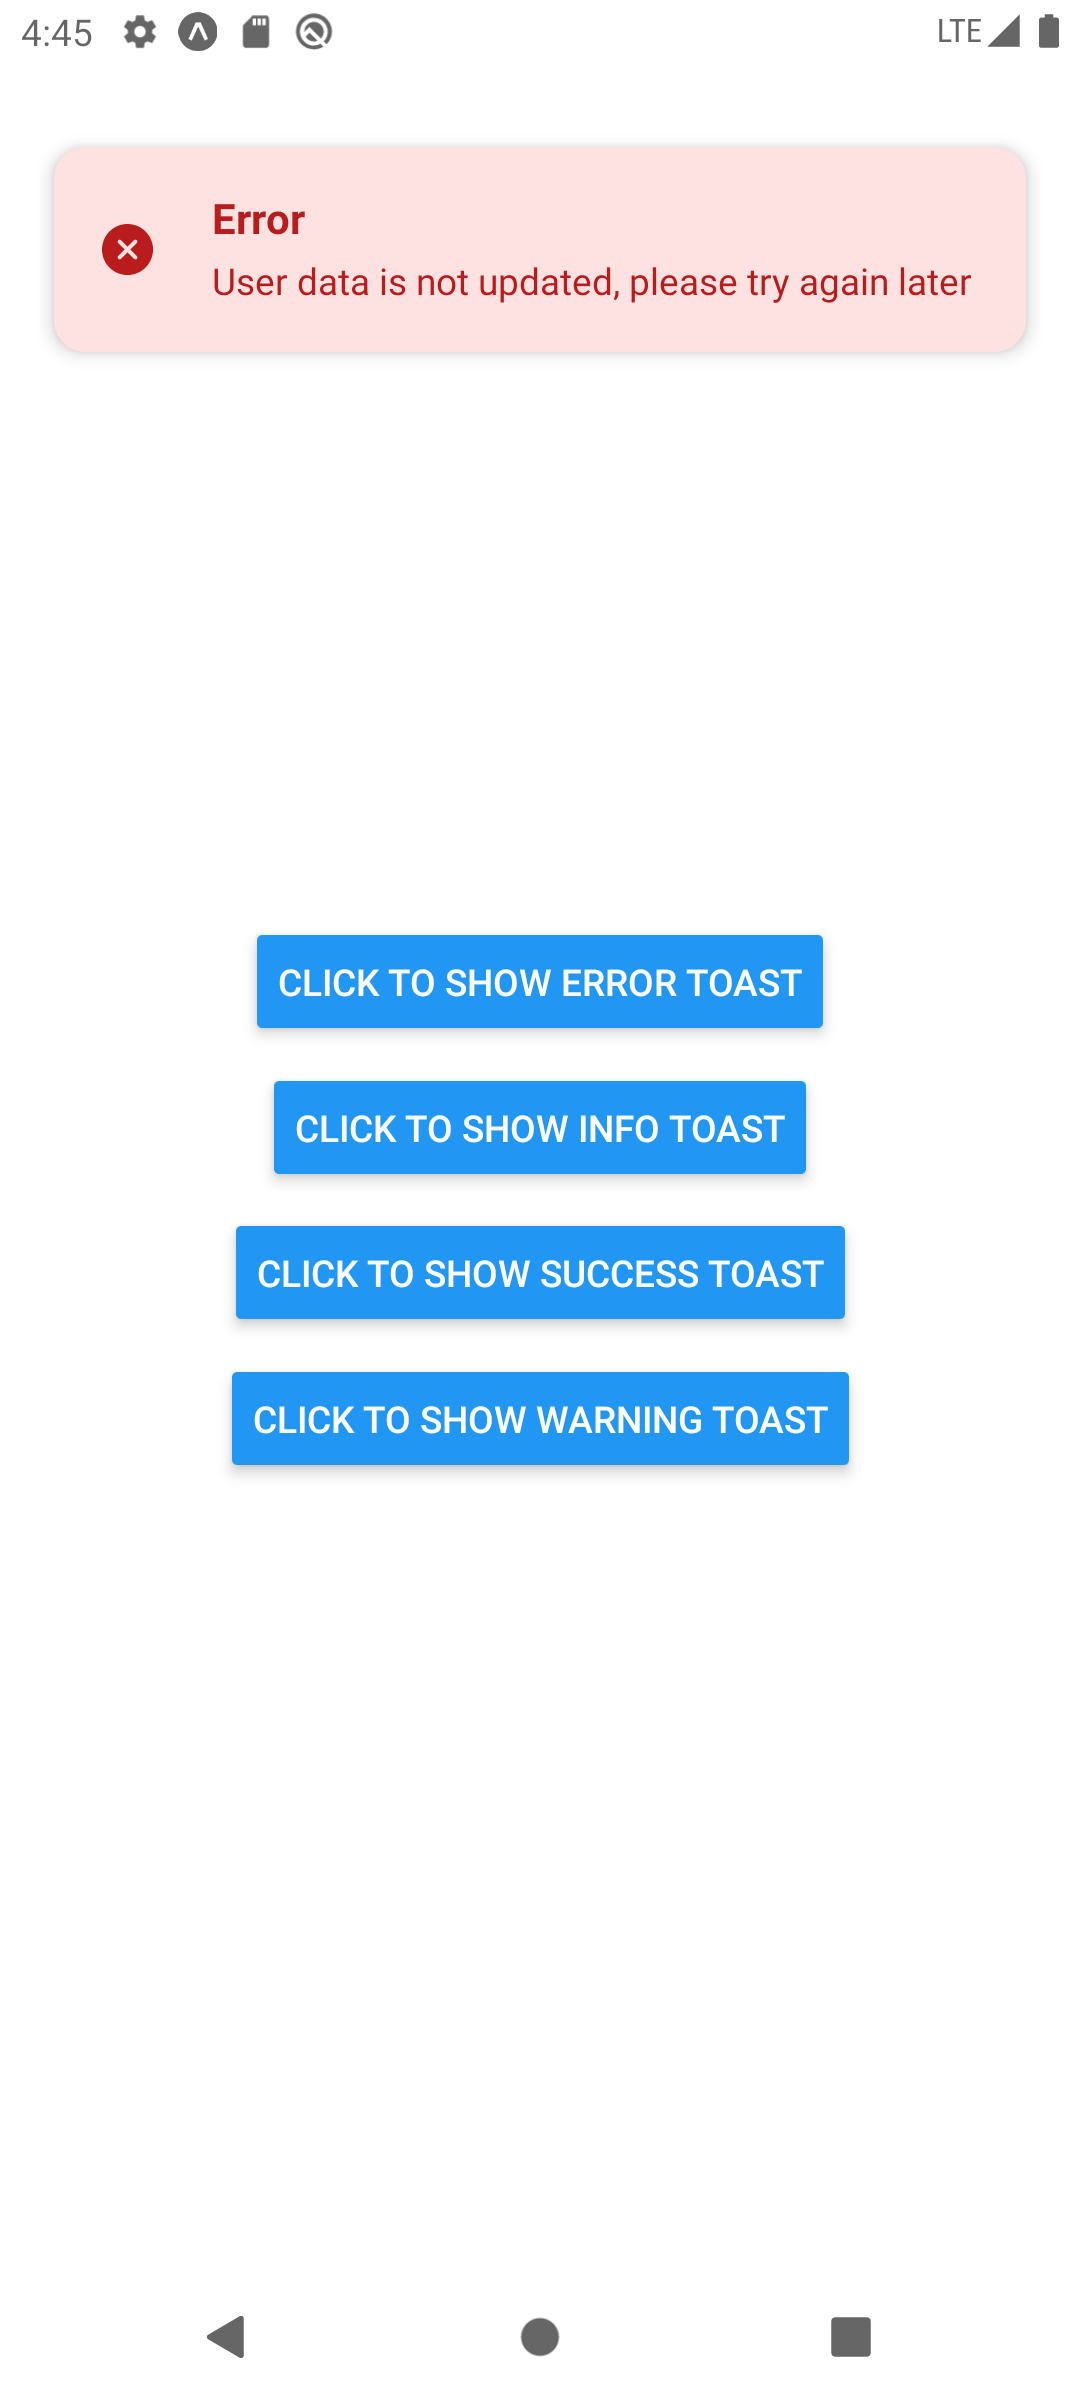
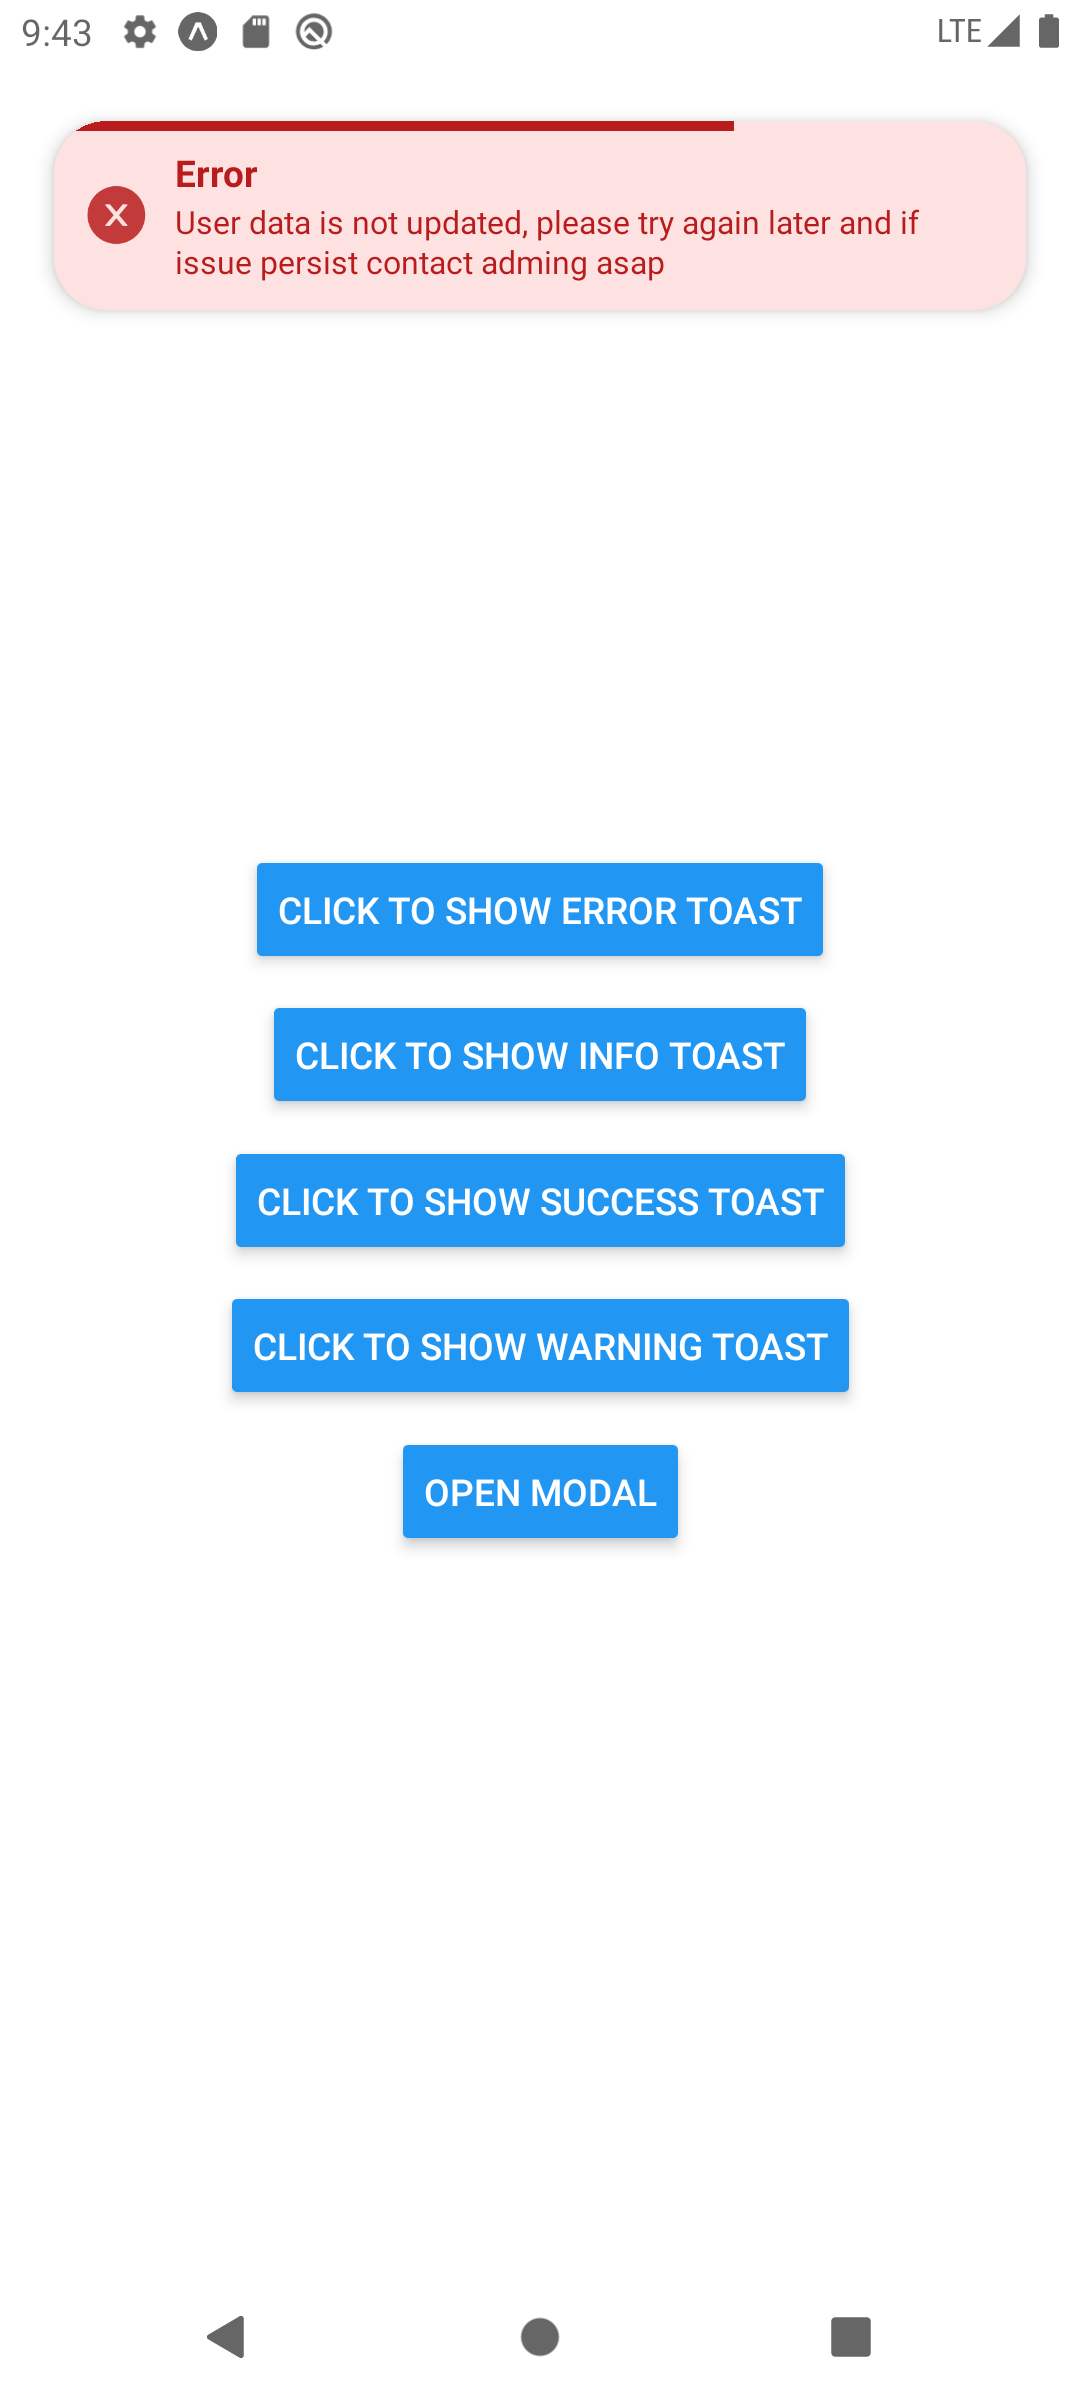
work on design enhancemnets

Changed region(s): [[0.2139, 0.3438, 0.7944, 0.6562], [0.0306, 0.0312, 0.9472, 0.1562]]

diff --git a/src/Toaster.tsx b/src/Toaster.tsx
@@ -14,7 +14,7 @@ import {
   Vibration,
   Image,
 } from 'react-native';
-import { setToastRef, type ToastOptions } from './toastService';
+import { setToastRef, type ToastOptions } from './toastService'; // Removed unused imports
 
 const { width: SCREEN_WIDTH, height: SCREEN_HEIGHT } = Dimensions.get('window');
 const DEFAULT_DURATION = 3000;
@@ -40,7 +40,13 @@ export type ToastAnimation =
   | 'slideFromBottom'
   | 'slideFromCorner';
 
-export type IconAnimationType = 'pulse' | 'rotate' | 'bounce' | 'none';
+export type IconAnimationType =
+  | 'pulse'
+  | 'rotate'
+  | 'bounce'
+  | 'shake'
+  | 'tada'
+  | 'none';
 
 export type SwipeDirection =
   | 'horizontal'
@@ -114,6 +120,7 @@ export const Toaster = ({
           ? updatedToasts.slice(updatedToasts.length - maxToasts)
           : updatedToasts;
       });
+      return id; // Return ID for programmatic dismissal
     },
     [
       maxToasts,
@@ -125,14 +132,18 @@ export const Toaster = ({
     ]
   );
 
-  useEffect(() => {
-    setToastRef(show);
-    return () => setToastRef(null);
-  }, [show]);
-
   const hideToast = useCallback((id: number) => {
     setToasts((prev) => prev.filter((toast) => toast.id !== id));
   }, []);
+
+  const hideAllToasts = useCallback(() => {
+    setToasts([]);
+  }, []);
+
+  useEffect(() => {
+    setToastRef(show, hideToast, hideAllToasts);
+    return () => setToastRef(null, null, null);
+  }, [show, hideToast, hideAllToasts]);
 
   return (
     <View style={styles.globalContainer} pointerEvents="box-none">
@@ -216,7 +227,7 @@ const ToastItem = ({
   const isClosing = useRef(false);
   const hasPressed = useRef(false);
   const iconAnimationRef = useRef<Animated.CompositeAnimation | null>(null);
-  const velocityThreshold = 0.5; // Minimum velocity to trigger swipe dismiss
+  const velocityThreshold = 0.5;
 
   const getAllowedDirections = (): ('left' | 'right' | 'up' | 'down')[] => {
     if (Array.isArray(swipeDirection)) return swipeDirection;
@@ -248,19 +259,24 @@ const ToastItem = ({
       onPanResponderMove: (_, gestureState) => {
         const { dx, dy } = gestureState;
 
-        // Only move in allowed directions
+        // Reset non-allowed directions
+        let newDx = dx;
+        let newDy = dy;
+
         if (
-          allowedDirections.includes('left') ||
-          allowedDirections.includes('right')
+          !allowedDirections.includes('left') &&
+          !allowedDirections.includes('right')
         ) {
-          pan.x.setValue(dx);
+          newDx = 0;
         }
         if (
-          allowedDirections.includes('up') ||
-          allowedDirections.includes('down')
+          !allowedDirections.includes('up') &&
+          !allowedDirections.includes('down')
         ) {
-          pan.y.setValue(dy);
+          newDy = 0;
         }
+
+        pan.setValue({ x: newDx, y: newDy });
       },
       onPanResponderRelease: (_, gesture) => {
         const { dx, dy, vx, vy } = gesture;
@@ -337,7 +353,7 @@ const ToastItem = ({
   ).current;
 
   useEffect(() => {
-    if (vibration && Platform.OS === 'android') {
+    if (vibration) {
       Vibration.vibrate(50);
     }
 
@@ -357,7 +373,6 @@ const ToastItem = ({
       useNativeDriver: true,
     }).start();
 
-    // Start icon animation if enabled
     if (iconAnimationType !== 'none') {
       startIconAnimation();
     }
@@ -372,7 +387,6 @@ const ToastItem = ({
       pan.x.removeAllListeners?.();
       pan.y.removeAllListeners?.();
 
-      // Stop icon animation
       if (iconAnimationRef.current) {
         iconAnimationRef.current.stop();
       }
@@ -431,6 +445,70 @@ const ToastItem = ({
         );
         break;
 
+      case 'shake':
+        iconAnimationRef.current = Animated.loop(
+          Animated.sequence([
+            Animated.timing(iconAnim, {
+              toValue: -5,
+              duration: 50,
+              useNativeDriver: true,
+            }),
+            Animated.timing(iconAnim, {
+              toValue: 5,
+              duration: 50,
+              useNativeDriver: true,
+            }),
+            Animated.timing(iconAnim, {
+              toValue: -5,
+              duration: 50,
+              useNativeDriver: true,
+            }),
+            Animated.timing(iconAnim, {
+              toValue: 5,
+              duration: 50,
+              useNativeDriver: true,
+            }),
+            Animated.timing(iconAnim, {
+              toValue: 0,
+              duration: 50,
+              useNativeDriver: true,
+            }),
+          ])
+        );
+        break;
+
+      case 'tada':
+        iconAnimationRef.current = Animated.loop(
+          Animated.sequence([
+            Animated.timing(iconAnim, {
+              toValue: 0.9,
+              duration: 100,
+              useNativeDriver: true,
+            }),
+            Animated.timing(iconAnim, {
+              toValue: 1.1,
+              duration: 100,
+              useNativeDriver: true,
+            }),
+            Animated.timing(iconAnim, {
+              toValue: 0.9,
+              duration: 100,
+              useNativeDriver: true,
+            }),
+            Animated.timing(iconAnim, {
+              toValue: 1.1,
+              duration: 100,
+              useNativeDriver: true,
+            }),
+            Animated.timing(iconAnim, {
+              toValue: 1,
+              duration: 100,
+              useNativeDriver: true,
+            }),
+          ])
+        );
+        break;
+
       default:
         return;
     }
@@ -466,6 +544,16 @@ const ToastItem = ({
           transform: [{ translateY: iconAnim }],
         };
 
+      case 'shake':
+        return {
+          transform: [{ translateX: iconAnim }],
+        };
+
+      case 'tada':
+        return {
+          transform: [{ scale: iconAnim }],
+        };
+
       default:
         return {};
     }
@@ -475,7 +563,6 @@ const ToastItem = ({
     if (isClosing.current) return;
     isClosing.current = true;
 
-    // Stop icon animation when closing
     if (iconAnimationRef.current) {
       iconAnimationRef.current.stop();
     }

diff --git a/example/src/App.tsx b/example/src/App.tsx
@@ -1,7 +1,10 @@
-import { View, StyleSheet, Button } from 'react-native';
+import { useState } from 'react';
+import { View, StyleSheet, Button, Modal } from 'react-native';
 import { Toaster, showToast } from 'rn-snappy-toast';
 
 export default function App() {
+  const [modalVisible, setModalVisible] = useState(false);
+
   return (
     <>
       <Toaster />
@@ -21,8 +24,8 @@ export default function App() {
               closeOnTap: true,
               showCloseButton: false,
               richColors: true,
-              iconAnimationType: 'pulse',
-              swipeDirection: 'horizontal',
+              iconAnimationType: 'shake',
+              swipeDirection: 'vertical',
             })
           }
         />
@@ -76,7 +79,45 @@ export default function App() {
             })
           }
         />
+
+        {/* New Button to open modal */}
+        <Button title="Open Modal" onPress={() => setModalVisible(true)} />
       </View>
+
+      {/* Modal */}
+      <Modal
+        visible={modalVisible}
+        animationType="slide"
+        transparent={true}
+        onRequestClose={() => setModalVisible(false)}
+      >
+        <View style={styles.modalOverlay}>
+          <View style={styles.modalContent}>
+            <Button
+              title="Close Modal"
+              onPress={() => setModalVisible(false)}
+            />
+
+            <Button
+              title="Toast in Modal"
+              onPress={() =>
+                showToast({
+                  message: `User Details are updated successfully`,
+                  duration: 5000,
+                  type: 'success',
+                  position: 'top',
+                  title: 'Success',
+                  animationType: 'scale',
+                  progressBar: true,
+                  richColors: true,
+                  progressBarColor: 'green',
+                  iconAnimationType: 'pulse',
+                })
+              }
+            />
+          </View>
+        </View>
+      </Modal>
     </>
   );
 }
@@ -87,5 +128,19 @@ const styles = StyleSheet.create({
     gap: 20,
     alignItems: 'center',
     justifyContent: 'center',
+  },
+  modalOverlay: {
+    flex: 1,
+    backgroundColor: 'rgba(0,0,0,0.5)',
+    justifyContent: 'center',
+    alignItems: 'center',
+  },
+  modalContent: {
+    backgroundColor: 'white',
+    padding: 20,
+    borderRadius: 12,
+    alignItems: 'center',
+    gap: 20,
+    width: 300,
   },
 });

diff --git a/src/toastService.ts b/src/toastService.ts
@@ -41,15 +41,43 @@ export type SwipeDirection =
   | 'down'
   | ('left' | 'right' | 'up' | 'down')[];
 
-let toastRef: ((options: ToastOptions) => void) | null = null;
+type ShowFunction = (options: ToastOptions) => number | void;
+type HideFunction = (id: number) => void; // Changed to required number
 
-export const setToastRef = (ref: ((options: ToastOptions) => void) | null) => {
-  toastRef = ref;
+let toastShowRef: ShowFunction | null = null;
+let toastHideRef: HideFunction | null = null;
+let toastHideAllRef: (() => void) | null = null;
+
+export const setToastRef = (
+  show: ShowFunction | null,
+  hide: HideFunction | null,
+  hideAll: (() => void) | null
+) => {
+  toastShowRef = show;
+  toastHideRef = hide;
+  toastHideAllRef = hideAll;
 };
 
 export const showToast = (options: ToastOptions) => {
-  if (toastRef) {
-    toastRef(options);
+  if (toastShowRef) {
+    return toastShowRef(options);
+  } else {
+    console.warn('🚨 Toaster is not mounted!');
+  }
+};
+
+export const dismissToast = (id: number) => {
+  // Now requires number
+  if (toastHideRef) {
+    toastHideRef(id);
+  } else {
+    console.warn('🚨 Toaster is not mounted!');
+  }
+};
+
+export const dismissAllToasts = () => {
+  if (toastHideAllRef) {
+    toastHideAllRef();
   } else {
     console.warn('🚨 Toaster is not mounted!');
   }
